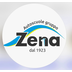
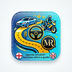
Corregge pubblicazione Agenda Istruttori v1-21 finale approvata

diff --git a/app.js b/app.js
@@ -5,8 +5,8 @@ const EXAMINERS_KEY="autoscuola_v3_examiners";
 const AUTH_PASSWORD_KEY="autoscuola_auth_user_password";
 const AUTH_REMEMBER_KEY="autoscuola_auth_remembered";
 const AUTH_SESSION_KEY="autoscuola_auth_session";
-const DEFAULT_USER_PASSWORD="Autoscuola1923";
-const MASTER_PASSWORD="ZenaMaster1964";
+const DEFAULT_USER_PASSWORD="ProgettoMR2026";
+const MASTER_PASSWORD="MRleo1964@";
 const APP_NAME="Agenda Istruttore";
 const APP_VERSION="1.21.0";
 const LABELS={auto:"Auto","guida-accompagnata":"Guida Accompagnata",moto:"Moto","quad-leggero":"Quadriciclo leggero AM","quad-pesante":"Quadriciclo pesante B1","corso-moto":"Corso moto ad accesso graduale A2 e A",perfezionamento:"Perfezionamento","esame-revisione":"Revisioni","esame-esperimento":"Esperimenti","da-classificare":"Da classificare"};
@@ -26,7 +26,7 @@ function loadLists(){const merged=JSON.parse(JSON.stringify(DEFAULT_LISTS));try{
 let LISTS=loadLists();
 function saveLists(){localStorage.setItem(LIST_KEY,JSON.stringify(LISTS))}
 const $=id=>document.getElementById(id),uid=()=>crypto.randomUUID?crypto.randomUUID():Date.now()+"_"+Math.random();
-let state={students:load(),examiners:loadExaminers(),studentId:null,lessonId:null,editingStudent:null,examinerId:null,editingExaminer:null,habitDraft:[],filter:"auto",managerType:"auto",watch:null,tempRoute:[],liveMap:null,liveLine:null,liveMarker:null,savedMap:null,savedLine:null,recognition:null,recognizing:false};
+let state={students:load(),examiners:loadExaminers(),studentId:null,lessonId:null,editingStudent:null,examinerId:null,editingExaminer:null,habitDraft:[],filter:null,managerType:"auto",watch:null,tempRoute:[],liveMap:null,liveLine:null,liveMarker:null,savedMap:null,savedLine:null,recognition:null,recognizing:false};
 function typeOf(c){return c==="perfezionamento"?"auto":(LISTS[c]?c:"auto")}
 function loadExaminers(){try{const a=JSON.parse(localStorage.getItem(EXAMINERS_KEY)||"[]");return Array.isArray(a)?a.map(x=>({id:String(x.id||uid()),firstName:String(x.firstName||""),lastName:String(x.lastName||""),notes:String(x.notes||""),habits:Array.isArray(x.habits)?x.habits.map(String):[]})):[]}catch{return []}}
 function saveExaminers(){localStorage.setItem(EXAMINERS_KEY,JSON.stringify(state.examiners))}
@@ -36,7 +36,8 @@ function normalizeStudent(s){const c=LABELS[s.category]?s.category:UNCLASSIFIED_
 function normalizeLesson(l,t){return{id:String(l.id||uid()),createdAt:Number(l.createdAt||Date.now()),notes:String(l.notes||""),route:Array.isArray(l.route)?l.route.filter(p=>Number.isFinite(p.lat)&&Number.isFinite(p.lng)).map(p=>({...p,breakBefore:!!p.breakBefore})):[],checklist:normalizeItems(l.checklist,t)}}
 function load(){try{const a=JSON.parse(localStorage.getItem(KEY)||"[]");return Array.isArray(a)?a.map(normalizeStudent):[]}catch{return []}}
 function save(){state.students=state.students.map(normalizeStudent);localStorage.setItem(KEY,JSON.stringify(state.students))}
-function show(id){document.querySelectorAll(".view").forEach(v=>v.classList.remove("active"));$(id).classList.add("active");scrollTo(0,0)}
+function setNeutralHome(){state.filter=null;document.querySelectorAll(".categories button[data-f]").forEach(button=>button.classList.remove("active"));$("studentSection").classList.add("hidden");$("unclassifiedStudents").classList.add("hidden")}
+function show(id){document.querySelectorAll(".view").forEach(v=>v.classList.remove("active"));$(id).classList.add("active");if(id==="home")setNeutralHome();scrollTo(0,0)}
 function userPassword(){return localStorage.getItem(AUTH_PASSWORD_KEY)||DEFAULT_USER_PASSWORD}
 function validPassword(value){return value===userPassword()||value===MASTER_PASSWORD}
 function isAuthenticated(){return localStorage.getItem(AUTH_REMEMBER_KEY)==="1"||sessionStorage.getItem(AUTH_SESSION_KEY)==="1"}
@@ -52,7 +53,7 @@ function renderStateItems(items,box,onchange){box.innerHTML="";items.forEach((it
 function sectionLabel(category){return LABELS[category]||(category===UNCLASSIFIED_CATEGORY?"Da classificare":"Sezione non indicata")}
 function renderStudents(){const q=$("search").value.trim().toLowerCase(),a=state.students.filter(s=>!s.archived&&s.category===state.filter).filter(s=>(nameOf(s)+" "+s.phone+" "+s.license).toLowerCase().includes(q)).sort((a,b)=>nameOf(a).localeCompare(nameOf(b),"it"));$("currentSectionTitle").textContent=sectionLabel(state.filter);$("students").innerHTML="";$("emptyStudents").classList.toggle("hidden",a.length>0);a.forEach(s=>{const b=document.createElement("button");b.className="student-card";b.innerHTML=`<strong>${esc(nameOf(s)||"Senza nome")}</strong><span class="meta">${sectionLabel(s.category)} · ${esc(s.license||"Patente non indicata")} · ${s.lessons.length} guide</span>`;b.onclick=()=>openStudent(s.id);$("students").appendChild(b)});const needsClassification=state.students.some(s=>!s.archived&&s.category===UNCLASSIFIED_CATEGORY),button=$("unclassifiedStudents");button.classList.toggle("hidden",!needsClassification);button.classList.toggle("active",state.filter===UNCLASSIFIED_CATEGORY)}
 function renderArchivedStudents(){const q=$("archiveSearch").value.trim().toLowerCase(),items=state.students.filter(s=>s.archived).filter(s=>(nameOf(s)+" "+s.phone+" "+s.license+" "+sectionLabel(s.category)).toLowerCase().includes(q)).sort((a,b)=>nameOf(a).localeCompare(nameOf(b),"it"));$("archivedStudents").replaceChildren();$("emptyArchive").classList.toggle("hidden",items.length>0);items.forEach(s=>{const b=document.createElement("button");b.className="student-card archived-student";b.innerHTML=`<strong>${esc(nameOf(s)||"Senza nome")}</strong><span class="meta">${sectionLabel(s.category)} · ${esc(s.license||"Patente non indicata")} · ${s.lessons.length} guide</span>`;b.onclick=()=>openStudent(s.id);$("archivedStudents").appendChild(b)})}
-function selectStudentSection(category){state.filter=category;document.querySelectorAll(".categories button[data-f]").forEach(button=>button.classList.toggle("active",button.dataset.f===category));$("newStudent").disabled=category===UNCLASSIFIED_CATEGORY;renderStudents()}
+function selectStudentSection(category){state.filter=category;$("studentSection").classList.remove("hidden");document.querySelectorAll(".categories button[data-f]").forEach(button=>button.classList.toggle("active",button.dataset.f===category));$("newStudent").disabled=category===UNCLASSIFIED_CATEGORY;renderStudents();$("studentSection").scrollIntoView({behavior:"smooth",block:"start"})}
 function pinkSlipExpiryDate(value){if(!/^\d{4}-\d{2}-\d{2}$/.test(value||""))return"";const [year,month,day]=value.split("-").map(Number),lastDay=new Date(year+1,month,0).getDate();return`${year+1}-${String(month).padStart(2,"0")}-${String(Math.min(day,lastDay)).padStart(2,"0")}`}
 function formatStoredDate(value){if(!value)return"-";const [year,month,day]=value.split("-").map(Number);return new Date(year,month-1,day).toLocaleDateString("it-IT")}
 function updatePinkSlipExpiry(){const value=$("pinkSlipIssueDate").value,expiry=pinkSlipExpiryDate(value);$("pinkSlipExpiry").textContent=`Scadenza foglio rosa: ${expiry?formatStoredDate(expiry):"—"}`}
@@ -72,9 +73,11 @@ function saveLesson(){stopGps();const stamp=new Date(`${$("lessonDate").value}T$
 function deleteLesson(){if(confirm("Eliminare questa guida?")){student().lessons=student().lessons.filter(x=>x.id!==state.lessonId);save();openStudent(state.studentId)}}
 function initLiveMap(){if(!state.liveMap){state.liveMap=L.map("liveMap").setView([44.4056,8.9463],13);L.tileLayer("https://{s}.tile.openstreetmap.org/{z}/{x}/{y}.png",{maxZoom:19,attribution:"© OpenStreetMap"}).addTo(state.liveMap)}setTimeout(()=>state.liveMap.invalidateSize(),80)}
 function routeSegments(route){const segments=[];let current=[];route.forEach((point,index)=>{if(index>0&&point.breakBefore&&current.length){segments.push(current);current=[]}current.push([point.lat,point.lng])});if(current.length)segments.push(current);return segments}
-function drawLive(){initLiveMap();if(state.liveLine)state.liveMap.removeLayer(state.liveLine);if(state.liveMarker)state.liveMap.removeLayer(state.liveMarker);state.liveLine=null;state.liveMarker=null;if(!state.tempRoute.length)return;const segments=routeSegments(state.tempRoute),layers=segments.filter(x=>x.length>1).map(x=>L.polyline(x,{weight:5}));state.liveLine=L.featureGroup(layers).addTo(state.liveMap);const last=state.tempRoute.at(-1);state.liveMarker=L.marker([last.lat,last.lng]).addTo(state.liveMap);if(state.tempRoute.length===1)state.liveMap.setView([last.lat,last.lng],17);else{const bounds=state.liveLine.getBounds();if(bounds.isValid())state.liveMap.fitBounds(bounds,{padding:[20,20]});else state.liveMap.setView([last.lat,last.lng],17)}}
-function startGps(){if(!navigator.geolocation||state.watch!==null)return;$("gpsStatus").textContent="GPS in acquisizione…";$("startGps").disabled=true;$("stopGps").disabled=false;state.watch=navigator.geolocation.watchPosition(pos=>{const p={lat:pos.coords.latitude,lng:pos.coords.longitude,accuracy:Number(pos.coords.accuracy||999),time:pos.timestamp,breakBefore:false};if(p.accuracy>70){$("gpsStatus").textContent="GPS attivo · attendo un segnale più preciso";return}const prev=state.tempRoute.at(-1);if(!prev){state.tempRoute.push(p);drawLive()}else{const metres=distance(prev,p),hasTime=Number.isFinite(prev.time),seconds=hasTime?Math.max(0.001,(p.time-prev.time)/1000):0,speed=hasTime?metres/seconds:0;if(metres>=5){p.breakBefore=!hasTime&&metres>80||hasTime&&seconds>15&&metres>80||metres>300||hasTime&&speed>55;state.tempRoute.push(p);drawLive()}}$("gpsStatus").textContent=`GPS attivo · ${state.tempRoute.length} punti`},err=>{if(err.code===1){$("gpsStatus").textContent="Permesso GPS negato.";stopGps();return}$("gpsStatus").textContent=err.code===2?"Segnale GPS temporaneamente non disponibile · registrazione ancora attiva":"Tempo di acquisizione GPS scaduto · registrazione ancora attiva"},{enableHighAccuracy:true,maximumAge:0,timeout:15000})}
-function stopGps(){if(state.watch!==null)navigator.geolocation.clearWatch(state.watch);state.watch=null;$("startGps").disabled=false;$("stopGps").disabled=true}function resetGps(){stopGps();$("gpsStatus").textContent=state.tempRoute.length?`Percorso presente · ${state.tempRoute.length} punti`:"GPS non attivo.";drawLive()}
+function drawLive(){initLiveMap();if(state.liveLine)state.liveMap.removeLayer(state.liveLine);if(state.liveMarker)state.liveMap.removeLayer(state.liveMarker);state.liveLine=null;state.liveMarker=null;if(!state.tempRoute.length)return;const segments=routeSegments(state.tempRoute),layers=segments.filter(x=>x.length>1).map(x=>L.polyline(x,{weight:5,color:"#d70015",opacity:.9}));state.liveLine=L.featureGroup(layers).addTo(state.liveMap);const last=state.tempRoute.at(-1);state.liveMarker=L.marker([last.lat,last.lng]).addTo(state.liveMap);if(state.tempRoute.length===1)state.liveMap.setView([last.lat,last.lng],17);else{const bounds=state.liveLine.getBounds();if(bounds.isValid())state.liveMap.fitBounds(bounds,{padding:[20,20]});else state.liveMap.setView([last.lat,last.lng],17)}}
+function updateGpsUi(message){const active=state.watch!==null,button=$("startGps");button.classList.toggle("gps-active",active);button.textContent=active?"FERMA GPS":"AVVIA GPS";button.setAttribute("aria-pressed",String(active));$("gpsIndicator").classList.toggle("active",active);$("gpsIndicator").textContent=active?"● GPS ATTIVO — registrazione percorso":"GPS non attivo";if(message)$("gpsStatus").textContent=message}
+function gpsErrorMessage(error){if(error.code===1)return"Permesso GPS negato. Abilita la posizione nelle impostazioni del dispositivo.";if(error.code===2)return"Posizione temporaneamente non disponibile. Verifica il segnale GPS.";if(error.code===3)return"Tempo di acquisizione GPS scaduto. La registrazione resta in attesa.";return"Il GPS si è interrotto per un errore imprevisto."}
+function startGps(){if(state.watch!==null){stopGps();return}if(!navigator.geolocation){updateGpsUi("Geolocalizzazione non supportata da questo dispositivo o browser.");return}try{const watchId=navigator.geolocation.watchPosition(pos=>{const lat=Number(pos.coords.latitude),lng=Number(pos.coords.longitude),accuracy=Number(pos.coords.accuracy),time=Number(pos.timestamp)||Date.now();if(!Number.isFinite(lat)||!Number.isFinite(lng)||!Number.isFinite(accuracy)){updateGpsUi("Posizione GPS ricevuta ma non valida.");return}if(accuracy>100){updateGpsUi("GPS attivo · attendo un segnale più preciso");return}const p={lat,lng,accuracy,time,breakBefore:false},prev=state.tempRoute.at(-1);if(!prev){state.tempRoute.push(p);drawLive()}else{const metres=distance(prev,p),seconds=Number.isFinite(prev.time)?Math.max(.001,(p.time-prev.time)/1000):null,speed=seconds===null?null:metres/seconds,minMove=Math.max(3,Math.min(8,(prev.accuracy+p.accuracy)*.08));if(metres>=minMove){p.breakBefore=metres>300&&(speed===null||speed>65);state.tempRoute.push(p);drawLive()}}updateGpsUi(`GPS attivo · ${state.tempRoute.length} punti registrati`)},error=>{const message=gpsErrorMessage(error);if(error.code===1)stopGps(message);else updateGpsUi(`${message} Registrazione ancora attiva.`)},{enableHighAccuracy:true,maximumAge:0,timeout:20000});state.watch=watchId;updateGpsUi("GPS attivo · acquisizione della posizione…")}catch(error){state.watch=null;updateGpsUi("Impossibile avviare il GPS su questo dispositivo.")}}
+function stopGps(message){if(state.watch!==null&&navigator.geolocation)navigator.geolocation.clearWatch(state.watch);state.watch=null;updateGpsUi(message||"GPS non attivo.")}function toggleGps(){if(state.watch===null)startGps();else stopGps()}function resetGps(){stopGps(state.tempRoute.length?`Percorso presente · ${state.tempRoute.length} punti`:"GPS non attivo.");drawLive()}
 function distance(a,b){const R=6371000,p1=a.lat*Math.PI/180,p2=b.lat*Math.PI/180,dp=(b.lat-a.lat)*Math.PI/180,dl=(b.lng-a.lng)*Math.PI/180,h=Math.sin(dp/2)**2+Math.cos(p1)*Math.cos(p2)*Math.sin(dl/2)**2;return 2*R*Math.atan2(Math.sqrt(h),Math.sqrt(1-h))}
 function showSavedRoute(){const l=lesson();if(!l||l.route.length<2)return;show("savedMapView");if(!state.savedMap){state.savedMap=L.map("savedMap");L.tileLayer("https://{s}.tile.openstreetmap.org/{z}/{x}/{y}.png",{maxZoom:19,attribution:"© OpenStreetMap"}).addTo(state.savedMap)}if(state.savedLine)state.savedMap.removeLayer(state.savedLine);const layers=routeSegments(l.route).filter(x=>x.length>1).map(x=>L.polyline(x,{weight:6}));state.savedLine=L.featureGroup(layers).addTo(state.savedMap);const bounds=state.savedLine.getBounds();if(bounds.isValid())state.savedMap.fitBounds(bounds,{padding:[20,20]});setTimeout(()=>state.savedMap.invalidateSize(),80)}
 function syncLists(type){state.students.forEach(s=>{if(typeOf(s.category)!==type)return;s.checklist=normalizeItems(s.checklist,type);s.lessons=s.lessons.map(l=>({...l,checklist:normalizeItems(l.checklist,type)}))});saveLists();save()}
@@ -272,6 +275,7 @@ $("search").oninput=renderStudents;$("newStudent").onclick=newStudent;$("openExa
 document.querySelectorAll(".categories button[data-f]").forEach(button=>button.onclick=()=>selectStudentSection(button.dataset.f));
 $("unclassifiedStudents").onclick=()=>selectStudentSection(UNCLASSIFIED_CATEGORY);
 $("archiveSearch").oninput=renderArchivedStudents;
+$("studentSectionHome").onclick=()=>show("home");
 $("openArchive").onclick=()=>{renderArchivedStudents();show("studentArchive")};
 $("backArchive").onclick=()=>{renderStudents();show("home")};
 $("archiveStudent").onclick=archiveStudent;

diff --git a/index.html b/index.html
@@ -6,10 +6,10 @@
 <meta name="theme-color" content="#12616c">
 <meta name="apple-mobile-web-app-capable" content="yes">
 <title>Agenda Istruttori</title>
-<link rel="manifest" href="manifest.json">
-<link rel="apple-touch-icon" href="apple-touch-icon.png">
+<link rel="manifest" href="manifest.json?v=1.21-identita-definitiva">
+<link rel="apple-touch-icon" sizes="180x180" href="apple-touch-icon-v1-21.png">
 <link rel="stylesheet" href="https://unpkg.com/leaflet@1.9.4/dist/leaflet.css">
-<link rel="stylesheet" href="style.css">
+<link rel="stylesheet" href="style.css?v=1.21-logo-background-r5">
 <link rel="stylesheet" href="auth.css">
 <link rel="stylesheet" href="transfer.css">
 <link rel="stylesheet" href="documents.css">
@@ -18,7 +18,7 @@
 <body>
 <section id="loginScreen" class="auth-screen">
   <div class="auth-card">
-    <img src="logo.png" alt="Logo" class="auth-logo">
+    <img src="home-logo-mr-login-v1-21.png" alt="Logo MR Agenda Istruttori" class="auth-logo">
     <h1>AGENDA ISTRUTTORI</h1>
     <p class="muted auth-version">Versione 1.21</p>
     <p class="muted">Inserisci la password per accedere.</p>
@@ -32,11 +32,12 @@
   </div>
 </section>
 <div id="appShell" class="hidden">
-<header class="app-header"><img src="logo.png" alt="Applicazione per gli istruttori di guida di ZENA" class="main-logo"><h1>AGENDA ISTRUTTORI</h1><div>Gestione Allievi e Guide · v1.21</div></header>
+<header class="app-header"><img src="home-logo-mr-header-v1-21.png" alt="Logo MR con automobile, moto, volante e strada" class="main-logo"><h1>AGENDA ISTRUTTORI</h1><div>Gestione Allievi e Guide · v1.21</div></header>
 <main>
 <section id="home" class="view active">
+  <div class="card dashboard-intro"><h2>Dashboard</h2><p class="muted">Scegli una sezione. Nessuna categoria o allievo è selezionato automaticamente.</p></div>
   <div class="categories">
-    <button data-f="auto" class="active">🚗 Auto</button>
+    <button data-f="auto">🚗 Auto</button>
     <button data-f="moto">🏍 Moto</button>
     <button data-f="guida-accompagnata">🚗 Guida Accompagnata</button>
     <button data-f="quad-leggero">🛵 Quadriciclo leggero AM</button>
@@ -47,21 +48,29 @@
     <button data-f="esame-esperimento">🎯 Esperimenti</button>
     <button id="openExaminers">👨💼 Esaminatori</button>
   </div>
-  <div class="card student-section">
+  <div id="studentSection" class="card student-section hidden">
+    <button id="studentSectionHome" type="button" class="home-command">← HOME</button>
     <h2 id="currentSectionTitle">Auto</h2>
     <button id="newStudent" class="full">➕ Nuovo allievo</button>
     <input id="search" type="search" placeholder="Cerca allievo">
     <div id="students"></div><p id="emptyStudents" class="empty hidden">Nessun allievo in questa sezione.</p>
   </div>
   <button id="unclassifiedStudents" class="secondary full hidden">⚠ Allievi da classificare</button>
+  <div class="dashboard-actions">
   <button id="openArchive" class="archive-action full">🗃 Archivio allievi</button>
   <a class="link-button full" href="https://aci.gov.it/approfondimento/il-codice-della-strada/" target="_blank" rel="noopener noreferrer">📖 Codice della Strada ACI</a>
   <button id="openDocuments" class="secondary full">📁 Documenti vari</button>
+  </div>
+  <div class="secondary-functions" aria-label="Altre funzioni">
+  <h2>Altre funzioni</h2>
+  <div class="secondary-actions">
   <button id="manageChecklists" class="secondary full">Gestisci checklist</button>
   <button id="openSettings" class="secondary full">Impostazioni</button>
   <button id="importStudent" class="secondary full">📥 Importa allievo</button>
   <button id="shareStudents" class="secondary full">📤 Condividi più allievi</button>
-  <button id="logout" class="secondary full">Esci</button>
+  <button id="logout" class="logout-action full">Esci</button>
+  </div>
+  </div>
   <input id="studentFile" class="hidden" type="file" accept=".json,application/json">
 </section>
 
@@ -72,7 +81,7 @@
     <input id="archiveSearch" type="search" placeholder="Cerca nell'archivio">
     <div id="archivedStudents"></div><p id="emptyArchive" class="empty hidden">Nessun allievo archiviato.</p>
   </div>
-  <button id="backArchive" class="secondary full">Indietro</button>
+  <button id="backArchive" class="home-command full">← HOME</button>
 </section>
 
 <section id="studentForm" class="view">
@@ -99,7 +108,7 @@
     <div id="studentMultiShareList"></div>
     <button id="exportSelectedStudents" type="button" class="full">📤 Condividi allievi selezionati</button>
   </div>
-  <button id="backStudentMultiShare" type="button" class="secondary full">Indietro</button>
+  <button id="backStudentMultiShare" type="button" class="home-command full">← HOME</button>
 </section>
 
 <section id="student" class="view">
@@ -111,7 +120,7 @@
   <button id="restoreStudent" class="restore-action full hidden">↩ Ripristina allievo</button>
   <div class="card"><h2>Guide salvate</h2><div id="lessons"></div><p id="emptyLessons" class="empty hidden">Nessuna guida salvata.</p></div>
   <button id="deleteStudent" class="danger full">Elimina allievo</button>
-  <button id="backHome" class="secondary full">Indietro</button>
+  <button id="backHome" class="home-command full">← HOME</button>
 </section>
 
 <section id="lesson" class="view">
@@ -122,7 +131,7 @@
     <label>Note<textarea id="lessonNotes" rows="7"></textarea></label><button id="voice" class="secondary">🎤 Detta</button>
   </div>
   <div class="card"><h2>Checklist della guida</h2><div id="lessonChecklist"></div></div>
-  <div class="card"><h2>GPS</h2><div class="top"><button id="startGps">Avvia GPS</button><button id="stopGps" class="secondary" disabled>Ferma GPS</button></div><p id="gpsStatus" class="muted">GPS non attivo.</p><div id="liveMap" class="map"></div></div>
+  <div class="card gps-card"><h2>GPS</h2><button id="startGps" type="button" class="gps-toggle full" aria-pressed="false">AVVIA GPS</button><button id="stopGps" type="button" class="hidden" tabindex="-1" aria-hidden="true">Ferma GPS</button><p id="gpsIndicator" class="gps-indicator" role="status">GPS non attivo</p><p id="gpsStatus" class="muted" aria-live="polite">GPS non attivo.</p><div id="liveMap" class="map"></div></div>
   <button id="openSavedRoute" class="secondary full hidden">Apri percorso salvato</button>
   <div style="margin-bottom:90px"><button id="saveLesson" class="full">💾 Salva guida</button></div>
   <button id="deleteLesson" class="danger full hidden">Elimina guida</button>
@@ -139,13 +148,13 @@
     <div class="toolbar checklist-add"><input id="newChecklistLabel" placeholder="Nuova voce"><button id="addChecklistItem">Aggiungi</button></div>
     <div id="checklistManagerList"></div>
   </div>
-  <button id="backChecklistManager" class="secondary full">Indietro</button>
+  <button id="backChecklistManager" class="home-command full">← HOME</button>
 </section>
 
 <section id="examiners" class="view">
   <div class="top"><button id="newExaminer">➕ Nuovo esaminatore</button></div>
   <div class="card"><h2>Esaminatori</h2><div id="examinerList"></div><p id="emptyExaminers" class="empty hidden">Nessun esaminatore.</p></div>
-  <button id="backExaminers" class="secondary full">Indietro</button>
+  <button id="backExaminers" class="home-command full">← HOME</button>
 </section>
 
 <section id="examinerForm" class="view">
@@ -186,7 +195,7 @@
     <input id="fullBackupFile" class="hidden" type="file" accept=".agendabackup,.json,application/json,application/octet-stream,*/*">
     <p id="fullBackupMessage" class="muted hidden" role="status"></p>
   </div>
-  <button id="backSettings" class="secondary full">Indietro</button>
+  <button id="backSettings" class="home-command full">← HOME</button>
 </section>
 
 <section id="documentsView" class="view">
@@ -226,6 +235,7 @@
   </div>
 </section>
 </main>
+<footer class="ownership">© 2026 Mario Leoni — Tutti i diritti riservati<br><span>L'applicazione e il relativo codice sono software proprietario. I materiali di terzi restano di proprietà dei rispettivi titolari.</span></footer>
 </div>
 <div id="choiceModal" class="choice-modal hidden" role="dialog" aria-modal="true" aria-labelledby="choiceTitle">
   <div class="choice-card">

diff --git a/style.css b/style.css
@@ -5,17 +5,25 @@
 /* Tavolozza v1.21 coordinata con Genova, mare e Lanterna. */
 :root{--zena-cream:#f6eedc;--zena-paper:#fffaf0;--zena-blue:#12616c;--zena-blue-dark:#0b4650;--zena-green:#477b58;--zena-orange:#d87832;--zena-ink:#173437}
 body{background:linear-gradient(180deg,#eadfca 0,var(--zena-cream) 35%,#edf2e8 100%);color:var(--zena-ink);min-height:100vh}
-header,.app-header{position:sticky;top:0;z-index:20;text-align:center;padding:max(12px,env(safe-area-inset-top)) 12px 12px;background:linear-gradient(135deg,var(--zena-blue-dark),var(--zena-blue));color:#fff;border-bottom:4px solid var(--zena-orange);box-shadow:0 3px 12px #092f3655}
-.app-header h1{margin:5px 0 1px;font-size:clamp(1.35rem,5vw,2rem)}.app-header>div{color:#f7ead0}
-.main-logo{display:block;width:min(92%,520px);max-height:190px;object-fit:contain;margin:0 auto;border-radius:14px;background:var(--zena-paper);box-shadow:0 2px 10px #0018}
+header,.app-header{position:static;z-index:auto;text-align:center;padding:max(8px,env(safe-area-inset-top)) 10px 8px;background:linear-gradient(135deg,var(--zena-blue-dark),var(--zena-blue));color:#fff;border-bottom:4px solid var(--zena-orange);box-shadow:0 3px 12px #092f3655}
+.app-header h1{margin:4px 0 0;font-size:clamp(1.2rem,4.6vw,1.75rem);line-height:1.05}.app-header>div{color:#f7ead0;font-size:clamp(.78rem,2.8vw,.95rem)}
+.main-logo{display:block;width:min(72%,440px);max-height:128px;object-fit:contain;margin:0 auto;border-radius:12px;background:#12616c;box-shadow:0 0 0 6px #12616c,0 2px 10px #0018}
 .card,.student-card,.lesson-card{background:var(--zena-paper);border:1px solid #dfcfb3;box-shadow:0 2px 8px #17343718}
 button{background:var(--zena-blue)}button:hover{background:var(--zena-blue-dark)}button.secondary{background:#e7e2d6;color:var(--zena-ink)}
 .categories button{background:var(--zena-paper);color:var(--zena-ink);border-left:4px solid var(--zena-green)}.categories button.active{background:var(--zena-blue);color:#fff;border-left-color:var(--zena-orange)}
 .archive-action{background:var(--zena-orange)}.archive-action:hover{background:#b85d21}.restore-action{background:var(--zena-green)}.restore-action:hover{background:#356345}
 .archive-section{border-top:5px solid var(--zena-orange)}.archived-student{border-left:5px solid var(--zena-orange)}
 input:focus,textarea:focus,select:focus{outline:3px solid #d8783255;border-color:var(--zena-orange)}
-@media(max-width:520px){.main-logo{width:100%;max-height:150px}.app-header{padding-left:8px;padding-right:8px}main{padding:12px}}
+@media(max-width:520px){.main-logo{width:min(68%,270px);max-height:116px}.app-header{padding:max(6px,env(safe-area-inset-top)) 7px 7px}main{padding:12px}}
 #habitList{margin-top:12px}
 .pdf-resources h2{margin-top:0}.pdf-row{display:grid;grid-template-columns:1fr 1fr;gap:8px;margin-top:8px}.link-button{display:block;border-radius:12px;background:#e9e9ee;color:#111;padding:12px 15px;font-weight:700;text-align:center;text-decoration:none}
 .lesson-items{display:block;margin:8px 0;line-height:1.45}
+.dashboard-intro{text-align:center}.dashboard-actions{display:grid;grid-template-columns:repeat(2,minmax(0,1fr));gap:10px}.dashboard-actions .full{margin:0;min-height:54px}.student-section{scroll-margin-top:12px}.home-command{background:#12616c;color:#fff;min-height:46px}.student-section>.home-command{width:auto;margin:0 0 10px;padding:10px 16px}.secondary-functions{margin:14px 0}.secondary-functions>h2{font-size:1rem;margin:0 0 7px;color:#536568}.secondary-actions{display:grid;grid-template-columns:repeat(2,minmax(0,1fr));gap:7px}.secondary-actions .full{margin:0;min-height:44px;padding:9px 10px;font-size:.92rem}.logout-action{background:#596268;color:#fff}.logout-action:hover{background:#444b50}
+.gps-toggle{background:#0a84ff;font-size:1.05rem;min-height:52px}.gps-toggle:hover{background:#006dd6}.gps-toggle.gps-active{background:#d70015}.gps-toggle.gps-active:hover{background:#b00016}.gps-indicator{font-weight:800;color:#667;margin:10px 0}.gps-indicator.active{color:#d70015}.ownership{text-align:center;padding:18px 12px calc(18px + env(safe-area-inset-bottom));background:#0b4650;color:#fff;font-size:13px}.ownership span{color:#f7ead0}
+@media(max-width:520px){.dashboard-actions{grid-template-columns:1fr}.dashboard-actions .full{min-height:52px}.secondary-actions{grid-template-columns:repeat(2,minmax(0,1fr))}.secondary-actions .full{min-height:44px;font-size:.86rem;padding:8px 6px}}
 @media (min-width:700px) and (orientation:landscape),(min-width:1024px){header{display:flex;align-items:center;justify-content:center;gap:12px;padding:4px 12px!important}header img{width:64px!important;max-width:64px!important}header h1{font-size:20px;line-height:1;margin:0}header div{font-size:12px}}
+
+/* Il logo completo v1.21 resta leggibile e non viene compresso dalla vecchia testata compatta. */
+.app-header{display:block!important}
+header.app-header img.main-logo{width:auto!important;max-width:min(72%,440px)!important;height:128px!important;max-height:128px!important;object-fit:contain!important}
+@media(max-width:520px){header.app-header img.main-logo{width:auto!important;max-width:min(68%,270px)!important;height:116px!important;max-height:116px!important}}

diff --git a/full-backup.js b/full-backup.js
@@ -490,16 +490,20 @@
     localStorage.setItem(DATA_KEYS.examiners,JSON.stringify(appData.examiners));
   }
 
-  function canonicalAppData(appData){
-    const cleanItems=items=>(Array.isArray(items)?items:[]).map(item=>({label:String(item&&item.label||""),status:String(item&&item.status?item.status:item&&item.done?"good":"none")}));
+  function canonicalAppData(appData,checklistKeys=null){
+    const cleanItems=items=>(Array.isArray(items)?items:[]).map(item=>({label:String(item&&item.label||""),status:String(item&&item.status?item.status:item&&item.done?"good":"none")})).filter(item=>item.status!=="none");
+    const cleanRoute=route=>(Array.isArray(route)?route:[]).map(point=>({
+      lat:Number(point&&point.lat),lng:Number(point&&point.lng),accuracy:Number(point&&point.accuracy),time:Number(point&&point.time),breakBefore:point&&point.breakBefore===true
+    }));
     const students=(Array.isArray(appData.students)?appData.students:[]).map(student=>({
       id:String(student&&student.id||""),category:String(student&&student.category||""),firstName:String(student&&student.firstName||""),lastName:String(student&&student.lastName||""),phone:String(student&&student.phone||""),license:String(student&&student.license||""),pinkSlipIssueDate:String(student&&student.pinkSlipIssueDate||""),notes:String(student&&student.notes||student&&student.studentNotes||""),archived:student&&student.archived===true,
       checklist:cleanItems(student&&student.checklist),
-      lessons:(Array.isArray(student&&student.lessons)?student.lessons:[]).map(lesson=>({id:String(lesson&&lesson.id||""),createdAt:Number(lesson&&lesson.createdAt||0),notes:String(lesson&&lesson.notes||""),route:Array.isArray(lesson&&lesson.route)?lesson.route:[],checklist:cleanItems(lesson&&lesson.checklist)}))
+      lessons:(Array.isArray(student&&student.lessons)?student.lessons:[]).map(lesson=>({id:String(lesson&&lesson.id||""),createdAt:Number(lesson&&lesson.createdAt||0),notes:String(lesson&&lesson.notes||""),route:cleanRoute(lesson&&lesson.route),checklist:cleanItems(lesson&&lesson.checklist)}))
     }));
     const checklistSource=appData.checklists&&typeof appData.checklists==="object"&&!Array.isArray(appData.checklists)?appData.checklists:{};
     const checklists={};
-    Object.keys(checklistSource).sort().forEach(key=>{checklists[key]=Array.isArray(checklistSource[key])?checklistSource[key].map(String):[]});
+    const includedChecklistKeys=Array.isArray(checklistKeys)?checklistKeys:Object.keys(checklistSource);
+    includedChecklistKeys.sort().forEach(key=>{checklists[key]=Array.isArray(checklistSource[key])?checklistSource[key].map(String):[]});
     const examiners=(Array.isArray(appData.examiners)?appData.examiners:[]).map(examiner=>({id:String(examiner&&examiner.id||""),firstName:String(examiner&&examiner.firstName||""),lastName:String(examiner&&examiner.lastName||""),notes:String(examiner&&examiner.notes||""),habits:Array.isArray(examiner&&examiner.habits)?examiner.habits.map(String):[]}));
     return {students,checklists,examiners};
   }
@@ -510,26 +514,28 @@
   }
 
   async function createRestoreManifest(validated){
-    const canonical=canonicalAppData(validated.payload.appData);
+    const checklistKeys=Object.keys(validated.payload.appData.checklists).sort();
+    const canonical=canonicalAppData(validated.payload.appData,checklistKeys);
     return {
       version:1,
       students:canonical.students.length,
       lessons:canonical.students.reduce((total,student)=>total+student.lessons.length,0),
       examiners:canonical.examiners.length,
+      checklistKeys,
       appDataSha256:await textSha256(JSON.stringify(canonical)),
       documents:validated.payload.documents.map(documentRecord=>({id:documentRecord.id,originalName:documentRecord.originalName,mimeType:documentRecord.mimeType,size:documentRecord.size,sha256:documentRecord.sha256}))
     };
   }
 
   async function verifyRestoreManifest(manifest){
-    if(!manifest||manifest.version!==1||!Array.isArray(manifest.documents))throw new Error("Manifest di verifica non valido.");
+    if(!manifest||manifest.version!==1||!Array.isArray(manifest.documents)||!Array.isArray(manifest.checklistKeys))throw new Error("Manifest di verifica non valido.");
     const appData={
       students:parsedStorageValue(DATA_KEYS.students,[]),
       checklists:parsedStorageValue(DATA_KEYS.checklists,{}),
       examiners:parsedStorageValue(DATA_KEYS.examiners,[])
     };
     validateAppData(appData);
-    const canonical=canonicalAppData(appData);
+    const canonical=canonicalAppData(appData,manifest.checklistKeys);
     if(canonical.students.length!==manifest.students)throw new Error(`Verifica post-riavvio allievi fallita: attesi ${manifest.students}, trovati ${canonical.students.length}.`);
     const lessons=canonical.students.reduce((total,student)=>total+student.lessons.length,0);
     if(lessons!==manifest.lessons)throw new Error(`Verifica post-riavvio guide fallita: attese ${manifest.lessons}, trovate ${lessons}.`);

diff --git a/service-worker.js b/service-worker.js
@@ -1,4 +1,4 @@
-const CACHE="agenda-istruttori-v1-21-final";
+const CACHE="agenda-istruttori-v1-21-backup-compat-r7";
 const FILES=[
   "./",
   "./index.html",
@@ -11,11 +11,21 @@ const FILES=[
   "./documents.js",
   "./full-backup.js",
   "./manifest.json",
-  "./logo.jpg",
-  "./logo.png",
+  "./home-logo-mr-v1-21.png",
+  "./home-logo-mr-login-v1-21.png",
+  "./home-logo-mr-header-v1-21.png",
+  "./pwa-icon-mr-master-v1-21.png",
   "./apple-touch-icon.png",
+  "./apple-touch-icon-v1-21.png",
   "./icon-192.png",
-  "./icon-512.png"
+  "./icon-192-v1-21.png",
+  "./icon-512.png",
+  "./icon-512-v1-21.png",
+  "./launchericon-48x48.png",
+  "./launchericon-72x72.png",
+  "./launchericon-96x96.png",
+  "./launchericon-144x144.png",
+  "./LICENSE-PROPRIETARIA.txt"
 ];
 self.addEventListener("install",event=>{
   event.waitUntil(
